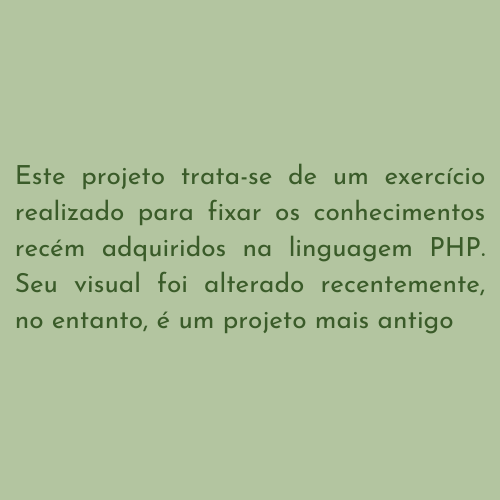
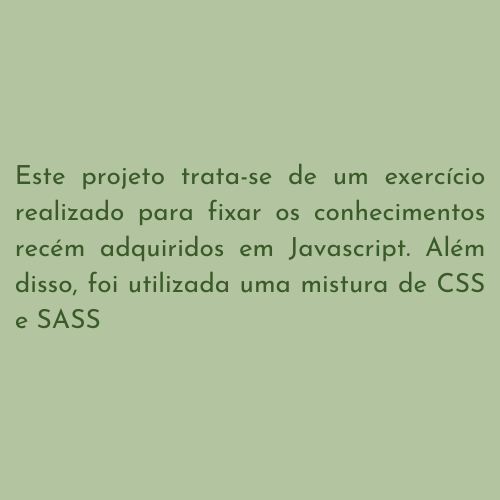
Ajustes e atualizações no layout

Changed region(s): [[0.03, 0.45, 0.99, 0.69], [0.69, 0.42, 0.75, 0.45], [0.48, 0.48, 0.54, 0.51]]

diff --git a/portfolio.html b/portfolio.html
@@ -26,19 +26,30 @@
     </section>
     <!-- Conteúdo principal -->
     <main>
-        <a target="_blank"
-            href="https://www.figma.com/proto/r3r7Mh3EkEQ2x73lBes1w1/Sistema%2FApp-de-Ado%C3%A7%C3%A3o-para-a-APAD?node-id=10-2&t=xjK6iqgQoVh5Phai-1&scaling=min-zoom&content-scaling=fixed&page-id=1%3A2&starting-point-node-id=10%3A2">
-            <div class="cards c1"></div>
-            <p class="legenda1">Projeto APAD</p>
-        </a>
-        <a target="_blank" href="https://www.canva.com/design/DAGOyAidBUQ/K8b7eOI2LpQQRMKxjBpmUg/view?utm_content=DAGOyAidBUQ&utm_campaign=designshare&utm_medium=link&utm_source=editor">
-            <div class="cards c2"></div>
-            <p class="legenda2">Projeto La'Carte</p>
-        </a>
-        <a target="_blank" href="http://jogo-cartas-simples.rf.gd">
-            <div class="cards c3"></div>
-            <p class="legenda1">Jogo de Cartas</p>
-        </a>
+        <div class="projetos">
+            <a target="_blank"
+                href="https://www.figma.com/proto/r3r7Mh3EkEQ2x73lBes1w1/Sistema%2FApp-de-Ado%C3%A7%C3%A3o-para-a-APAD?node-id=10-2&t=xjK6iqgQoVh5Phai-1&scaling=min-zoom&content-scaling=fixed&page-id=1%3A2&starting-point-node-id=10%3A2">
+                <div class="cards c1"></div>
+            </a>
+
+            <a target="_blank" href="https://www.canva.com/design/DAGOyAidBUQ/K8b7eOI2LpQQRMKxjBpmUg/view?utm_content=DAGOyAidBUQ&utm_campaign=designshare&utm_medium=link&utm_source=editor">
+                <div class="cards c2"></div>
+            </a>
+
+            <a target="_blank" href="https://jogodecartassimples.netlify.app">
+                <div class="cards c3"></div>
+            </a>
+
+             <a target="_blank" href="https://jogodecartassimples.netlify.app">
+                <div class="cards c3"></div>
+            </a>
+        </div>
+        <div class="texto">
+            <p class="legenda">Projeto APAD</p>
+            <p class="legenda">Projeto La'Carte</p>
+            <p class="legenda">Jogo de Cartas</p>
+            <p class="legenda">Em Breve</p>
+        </div>
     </main>
 </body>
 </html>

diff --git a/css/portfolio.css b/css/portfolio.css
@@ -77,25 +77,52 @@ ul li a:hover{
 section{
     font-family: "bungee";
     font-size: 2vw;
-    margin: 15vh 0 0 15vw;
+    margin: 5% 0 0 10%;
 }
 
 /* Estilo da parte que contém os projetos do portfólio */
 main{
     margin-top: 2vw;
-    display: flex;
-    flex-wrap: wrap;
-    justify-content: center;
     background-color: #b3c5a0;
     height: 50vh;
     -webkit-box-shadow: 3px 0px 10px 1px #00000096;
     -moz-box-shadow: 3px 0px 10px 1px #00000096;
     box-shadow: 3px 0px 10px 1px #00000096;
+    overflow-y: hidden;
+    overflow-x: auto;
+    /* padding-left: 10vw; */
+    box-sizing: border-box;
+}
+
+main::-webkit-scrollbar {
+  height: 8px; /* para scroll horizontal */
+}
+
+main::-webkit-scrollbar-track{
+  background: transparent;
+}
+
+main::-webkit-scrollbar-thumb{
+  background-color: #3a5b29;
+  border-radius: 6px;
+}
+
+.projetos{
+    display: flex;
+    flex-wrap: nowrap;
+    justify-content: center;
+}
+
+.texto{
+    display: flex;
+    flex-wrap: nowrap;
+    justify-content: center;
+    width: 100%;
 }
 
 /* Estilo dos cards de projetos */
 .cards{
-    margin: 3vw 6vw;
+    margin: 3vw;
     width: 15vw;
     height: 15vw;
     background-size: cover;
@@ -142,13 +169,7 @@ a{
     text-decoration: none;
 }
 
-/* Estilos das legendas dos cards */
-.legenda1{
-    margin: -3vh 11.5vw;
-    font-weight: bold;
-}
-
-.legenda2{
-    margin: -3vh 11vw;
-    font-weight: bold;
+.legenda{
+    font-weight: bold; 
+    margin: 0 8%;
 }

diff --git a/formacao.html b/formacao.html
@@ -30,15 +30,24 @@
             <p><img src="img/seta.svg" alt=""></img> 2020 - 2022: Técnico em Informática Integrado ao Ensino Médio;</p>
             <p class="inst"><em>Instituto Federal Catarinense, Campus Rio do Sul</em></p>
             <br>
+
             <p><img src="img/seta.svg" alt=""></img> 2023 - 2027: Bacharelado em Engenharia de Software;</p>
             <p class="inst"><em>UNINTER - Centro Universitário Educadional, Polo Rio do Sul</em></p>
             <br>
-            <p><img src="img/seta.svg" alt=""></img> 2023 - Atual: Redatora Técnica;</p>
+
+            <p><img src="img/seta.svg" alt=""></img> 2023 - 2024: Redatora Técnica;</p>
             <p class="inst"><em>IPM Sistemas Ltda., Rio do Sul</em></p>
             <p class="inst">Responsável por desenvolver os textos
                 técnicos de suporte ao <br> usuário final, como
                 por exemplo, guias de usuário e notas de
                 release.</p>
+            <br>
+
+            <p><img src="img/seta.svg" alt=""></img> 2024 - Atual: Analista de Suporte Técnico;</p>
+            <p class="inst"><em>Magazord Tecnologia Ltda., Rio do Sul</em></p>
+            <p class="inst">Responsável por prestar suporte aos clientes da empresa, <br>
+                tirando dúvidas e solucionando problemas técnicos referentes aos sistemas.
+            </p>
         </div>
         <div class="gif2"></div>
     </main>

diff --git a/index.html b/index.html
@@ -27,10 +27,10 @@
     <!-- Conteúdo principal -->
     <main>
         <div class="texto">
-            <p>Meu nome é Sara dos Santos Machado, tenho 20 anos e sou estudante de Engenharia de Software.</p>
+            <p>Meu nome é Sara dos Santos Machado, tenho 21 anos e sou estudante de Engenharia de Software.</p>
             <p>Atualmente moro no município de Rio do Sul, situado no estado de Santa Catarina, e trabalho como <br>
-                redatora técnica em uma empresa que desenvolve sistemas
-                para a gestão pública. <br><br>
+                Analista de Suporte Técnico em uma empresa que desenvolve sistemas
+                para a gestão de e-commerces. <br><br>
             </p>
             <p>Sou apaixonada por tecnologia, games e cultura <em>geek</em> num geral.
                 No meu tempo livre gosto de assistir <br> séries e animações japonesas, ler, praticar atividade física e

diff --git a/css/formacao.css b/css/formacao.css
@@ -77,7 +77,7 @@ ul li a:hover{
 section{
     font-family: "bungee";
     font-size: 2vw;
-    margin: 15vh 0 0 15vw;
+    margin: 5% 0 0 10%;
 }
 
 /* Estilo da parte que contém as informações da formação/experiência */
@@ -93,8 +93,8 @@ main{
 
 /* Estilo do texto dentro da tag main */
 .texto{
-    margin: 5% 15%;
-    font-size: 2.5vh;
+    margin: 2% 15%;
+    font-size: 2vh;
 }
 
 .inst{

diff --git a/css/sobre.css b/css/sobre.css
@@ -77,7 +77,7 @@ ul li a:hover{
 section{
     font-family: "bungee";
     font-size: 2vw;
-    margin: 15vh 0 0 15vw;
+    margin: 5% 0 0 10%;
 }
 
 /* Estilo da parte que contém as informações sobre mim */

diff --git a/css/contato.css b/css/contato.css
@@ -77,7 +77,7 @@ ul li a:hover{
 section{
     font-family: "bungee";
     font-size: 2vw;
-    margin: 15vh 0 0 15vw;
+    margin: 5% 0 2% 10%;
 }
 
 /* Estilo da parte que contém os campos de contato */
